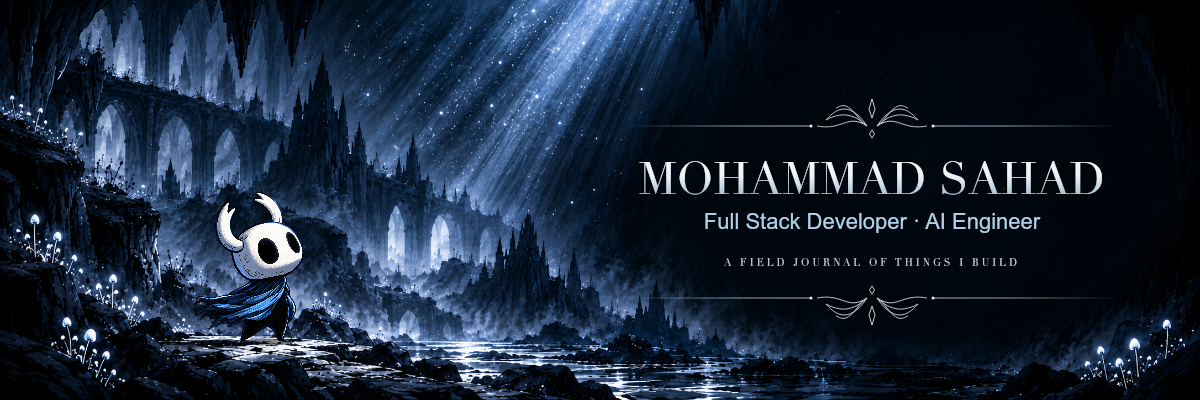
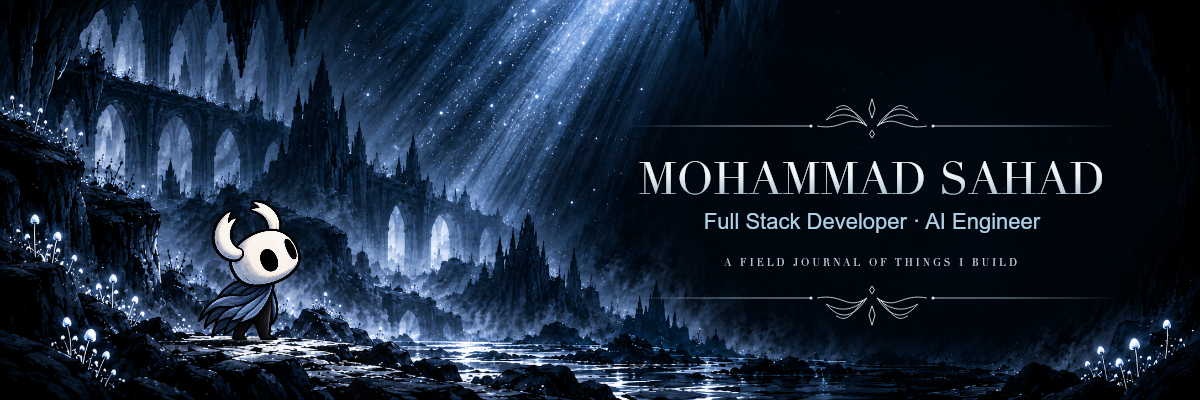
Replace cutout motion with a grounded Knight walk and settling poses

Changed region(s): [[0.1542, 0.48, 0.2775, 0.87]]

diff --git a/README.md b/README.md
@@ -1,7 +1,7 @@
 <div align="center">
   <picture>
     <source media="(prefers-reduced-motion: reduce)" srcset="./assets/moonlit-title.png" />
-    <img src="./assets/moonlit-awakening.gif" width="100%" alt="The Knight enters a moonlit cavern and follows a silver wisp, revealing Mohammad Sahad — Full Stack Developer and AI Engineer." />
+    <img src="./assets/moonlit-awakening-v2.gif" width="100%" alt="The Knight walks into a moonlit cavern, settles, and looks toward a silver wisp that reveals Mohammad Sahad — Full Stack Developer and AI Engineer." />
   </picture>
 
   <h1 align="center">Hi <img src="https://raw.githubusercontent.com/MartinHeinz/MartinHeinz/master/wave.gif" width="30px" alt="wave">, I'm Sahad</h1>
